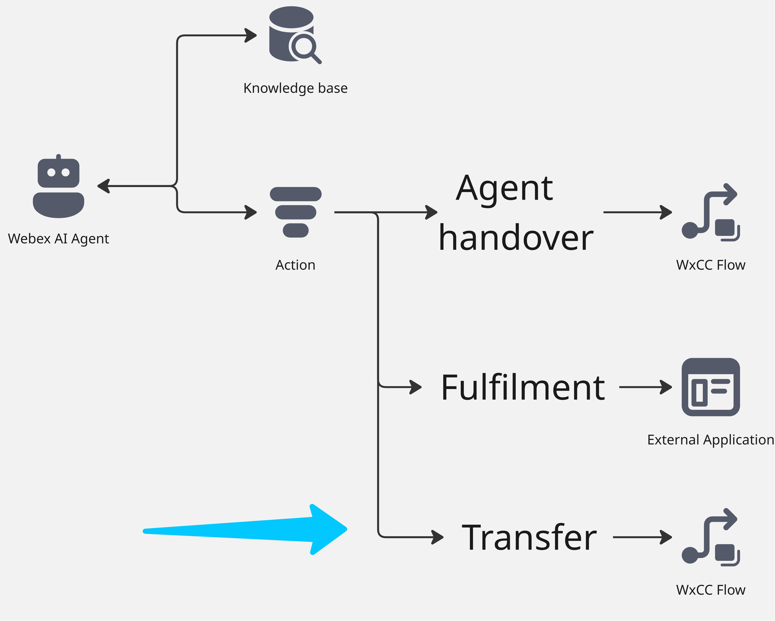
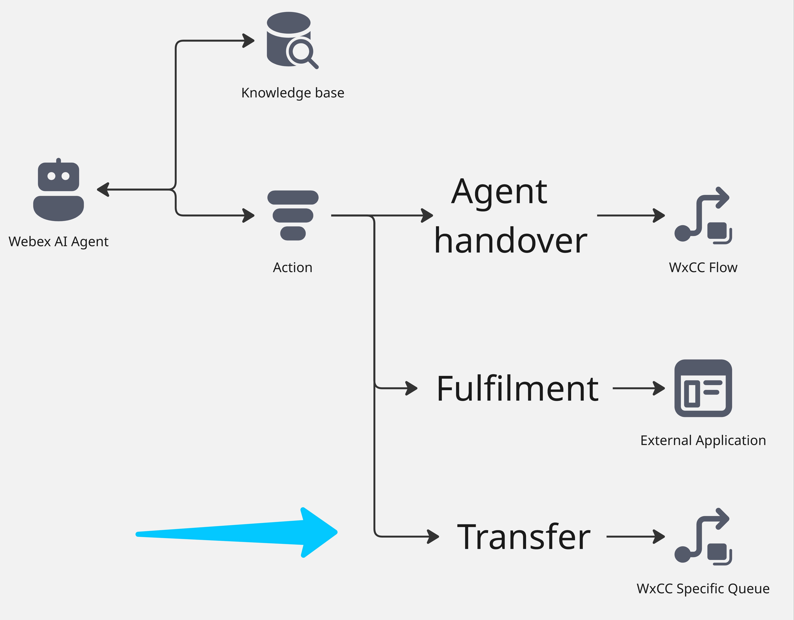
1

Changed region(s): [[0.0, 0.0, 0.96, 0.9806], [0.8052, 0.7048, 1.0, 0.7355]]

diff --git a/docs/main/AI_Lab_Aut_Mission_Transfer2.md b/docs/main/AI_Lab_Aut_Mission_Transfer2.md
@@ -11,7 +11,8 @@ icon: material/medal
 
 
 
-Transfer to Webex AI Agent Action is a task that an AI agent performs by understanding user intents and transferring the to another Webex AI agent for further processing. 
+Transfer Action is a task that an AI agent performs by understanding user intents and transferring the interaction back to the WxCC flow with custom data for further processing.
+
 
 
 </details>
@@ -21,7 +22,7 @@ Transfer to Webex AI Agent Action is a task that an AI agent performs by underst
 ## Mission overview
 Your mission is to:
 
-Configure the Transfer action to transfer the call another Webex AI Agent to do 
+For this mission, the proctor has created an AI Agent named **Flower_Wholesale**. The goal of this mission is to transfer the call from your AI agent to **Flower_Wholesale** using the Transfer operation.
    ![Profiles](../graphics/Lab1_AI_Agent/TransfertoAI.png)
 
 ---
@@ -30,5 +31,10 @@ Configure the Transfer action to transfer the call another Webex AI Agent to do
 
 ### Task 1. Create Transfer to flow action in AI Agent Studio portal. 
 
-1. From Control Hub, go to **Contact Center** > **Overview** and open up **Webex AI Agent** Portal. 
-    ![Profiles](../graphics/Lab1_AI_Agent/11.1.png)
+1. Open your AI agent with name **<copy><w class="attendee"></w>_2000_AutoAI_Lab</copy>** and then click on **Actions**.Action**. 
+    ![Profiles](../graphics/Lab1_AI_Agent/14.1.png)
+
+2. Select **Transfer_to_different_department** action. 
+    ![Profiles](../graphics/Lab1_AI_Agent/14.2.png)
+
+3. Adjust the Transfer condition by adding 

diff --git a/docs/main/AI_Lab_Aut_Mission_Transfer.md b/docs/main/AI_Lab_Aut_Mission_Transfer.md
@@ -34,7 +34,7 @@ Configure the Transfer action to transfer the call to WxCC Voice with custom set
 1. From Control Hub, go to **Contact Center** > **Overview** and open up **Webex AI Agent** Portal. 
     ![Profiles](../graphics/Lab1_AI_Agent/11.1.png)
 
-2. Open you AI agent with name **<copy><w class="attendee"></w>_2000_AutoAI_Lab</copy>** and then click on **Actions**.
+2. Open your AI agent with name **<copy><w class="attendee"></w>_2000_AutoAI_Lab</copy>** and then click on **Actions**.
     ![Profiles](../graphics/Lab1_AI_Agent/11.2.gif)
 
 3. Select **New action** option. Then click on **Creat new** and choose **Transfer** action. 
